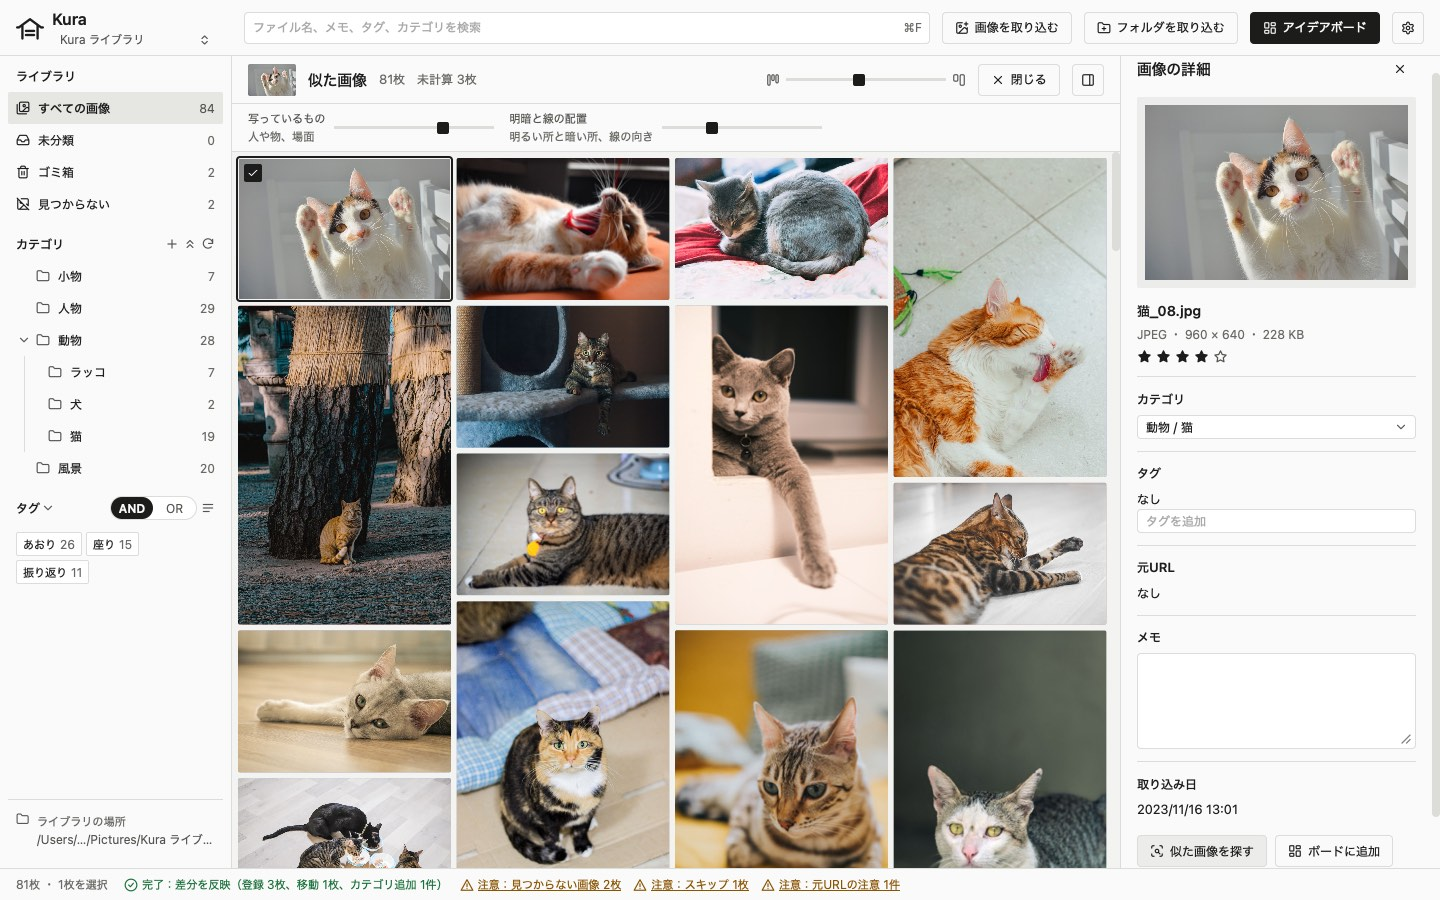
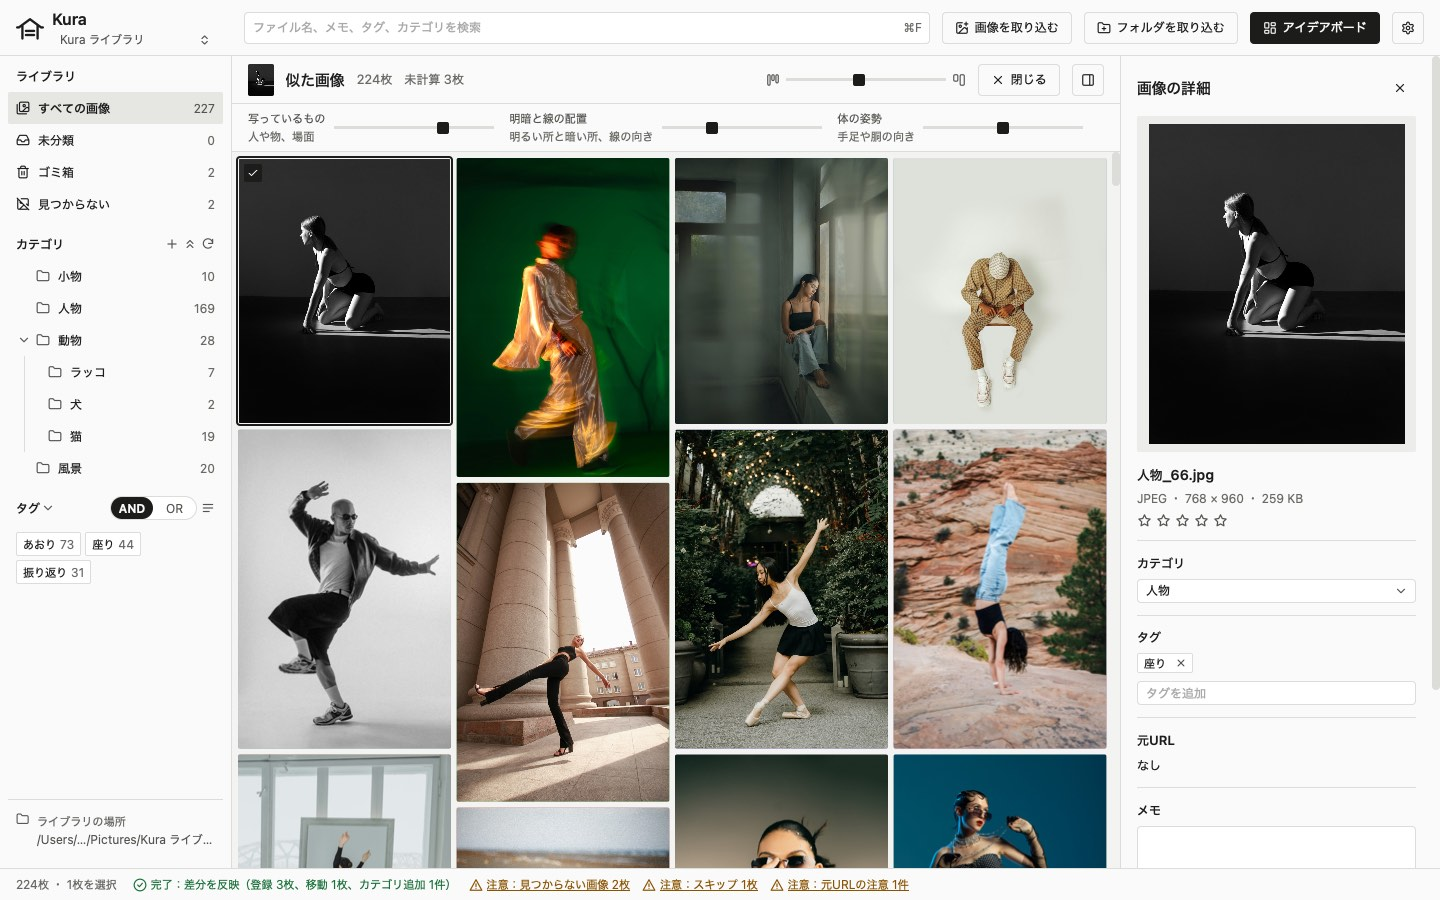
docs: README、紹介ページ、ユーザーガイドを体の姿勢とポーズのモデルの取得元に合わせる（タスク15、FR-601、FR-602、FR-605、NFR-08）
ポーズのモデルは再配布しないため、取得元と学習データの条件を利用者が読める場所に書く（利用者が案1を選んだ）。スクリーンショットは、体の姿勢のスライダーが写るよう人物の写真を基準にして撮り直した。

diff --git a/homepage/index.html b/homepage/index.html
@@ -133,7 +133,7 @@
             <li>
               <h3>似た画像を探す</h3>
               <p>
-                選んだ画像に似た画像を、写っているものと、明暗と線の配置で比べて並べます。どちらを重く見るかはスライダーで決めます。
+                選んだ画像に似た画像を、写っているもの、明暗と線の配置、体の姿勢で比べて並べます。どれを重く見るかはスライダーで決めます。
               </p>
             </li>
             <li>
@@ -158,7 +158,7 @@
                 width="1440"
                 height="900"
                 loading="lazy"
-                alt="選んだ猫の写真に似た画像を、似ている順に並べた画面"
+                alt="選んだ人物の写真に似た画像を、似ている順に並べた画面。帯に3つの見方の重みのスライダーがある"
               />
               <figcaption>似た画像を探す</figcaption>
             </figure>
@@ -220,7 +220,7 @@
             <li><a href="https://github.com/kk6/kura/blob/main/CHANGELOG.md">CHANGELOG</a>：各バージョンの変更内容</li>
             <li>
               <a href="https://github.com/kk6/kura/blob/main/docs/requirements.md">要件定義書</a
-              >：これから作る機能（ポーズが似た画像の検索、.clip やフォントの管理など）
+              >：これから作る機能（検索条件の保存、.clip やフォントの管理など）
             </li>
           </ul>
         </section>
@@ -278,6 +278,10 @@
         </nav>
       </div>
       <p class="note">Kura は MIT ライセンスのオープンソースソフトウェアです。</p>
+      <p class="note">
+        ポーズのモデルは OpenMMLab の配布先から取得します（Kura は配布しません）。条件は
+        <a href="https://github.com/kk6/kura#ライセンス">README のライセンスの節</a>を見てください。
+      </p>
       <p class="note">画面の中の写真：<a href="https://unsplash.com/ja">Unsplash</a></p>
     </footer>
   </body>

diff --git a/e2e/docs-screenshots.ts b/e2e/docs-screenshots.ts
@@ -47,15 +47,22 @@ test('似た画像を探す', async ({ page }) => {
         tags_collapsed: false,
         board_enabled: true,
         similarity_enabled: true,
-        similarity_weights: { content: 70, composition: 30 },
+        similarity_weights: { content: 70, composition: 30, pose: 50 },
         board_window: { always_on_top: false, opacity: 100, frame: null },
       }),
     )
   })
   await openGallery(page)
-  await page.getByRole('main', { name: '画像の一覧' }).getByAltText(/^猫_/).first().click()
-  await page.getByRole('complementary', { name: '詳細' }).getByRole('button', { name: '似た画像を探す' }).click()
-  await expect(page.getByRole('group', { name: '観点ごとの重み' })).toBeVisible()
+  // 「体の姿勢」のスライダーを写すため、モックでポーズのある人物の写真を基準にする。結果から選び直すと基準が入れ替わる
+  const people = page.getByRole('main', { name: '画像の一覧' }).getByAltText(/^人物_/)
+  const weights = page.getByRole('group', { name: '観点ごとの重み' })
+  for (let i = 0; !(await weights.getByLabel('体の姿勢').count()); i++) {
+    await people.nth(i).click()
+    await page.getByRole('complementary', { name: '詳細' }).getByRole('button', { name: '似た画像を探す' }).click()
+    await expect(weights).toBeVisible()
+  }
+  // 押したボタンまで詳細パネルが下がっているので、画像の見える位置に戻す
+  await page.getByRole('complementary', { name: '詳細' }).evaluate((e) => e.scrollTo(0, 0))
   await shot(page, 'similarity')
 })
 
